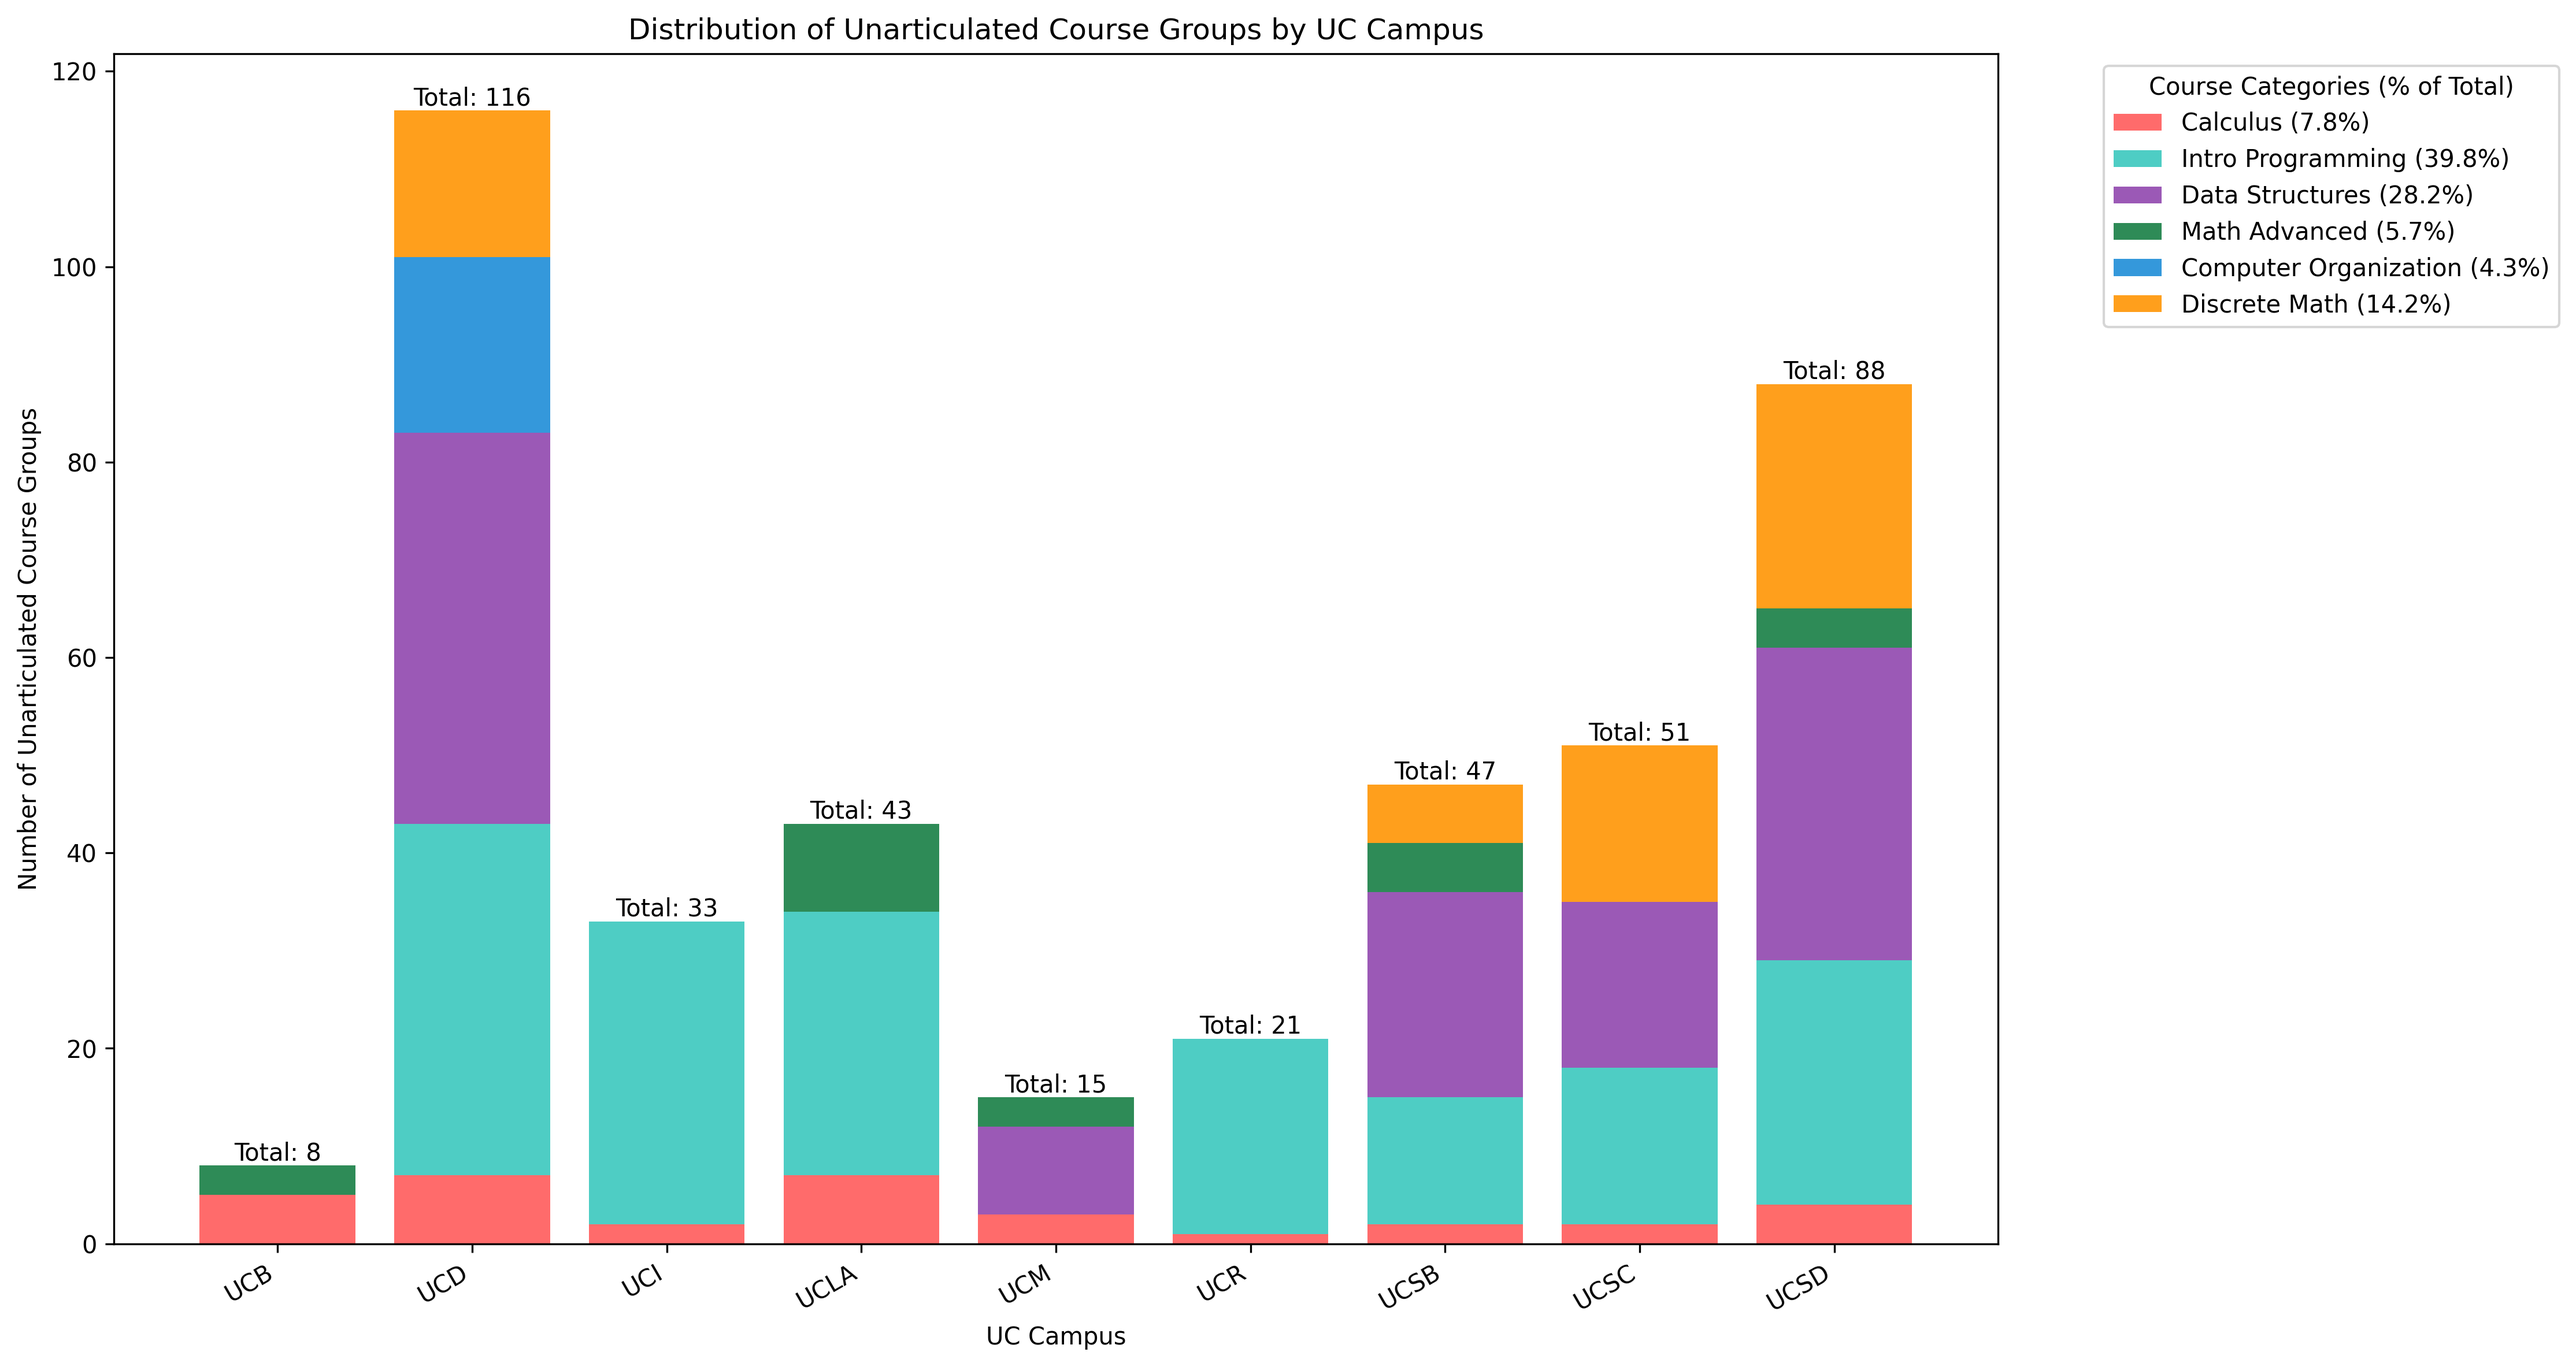
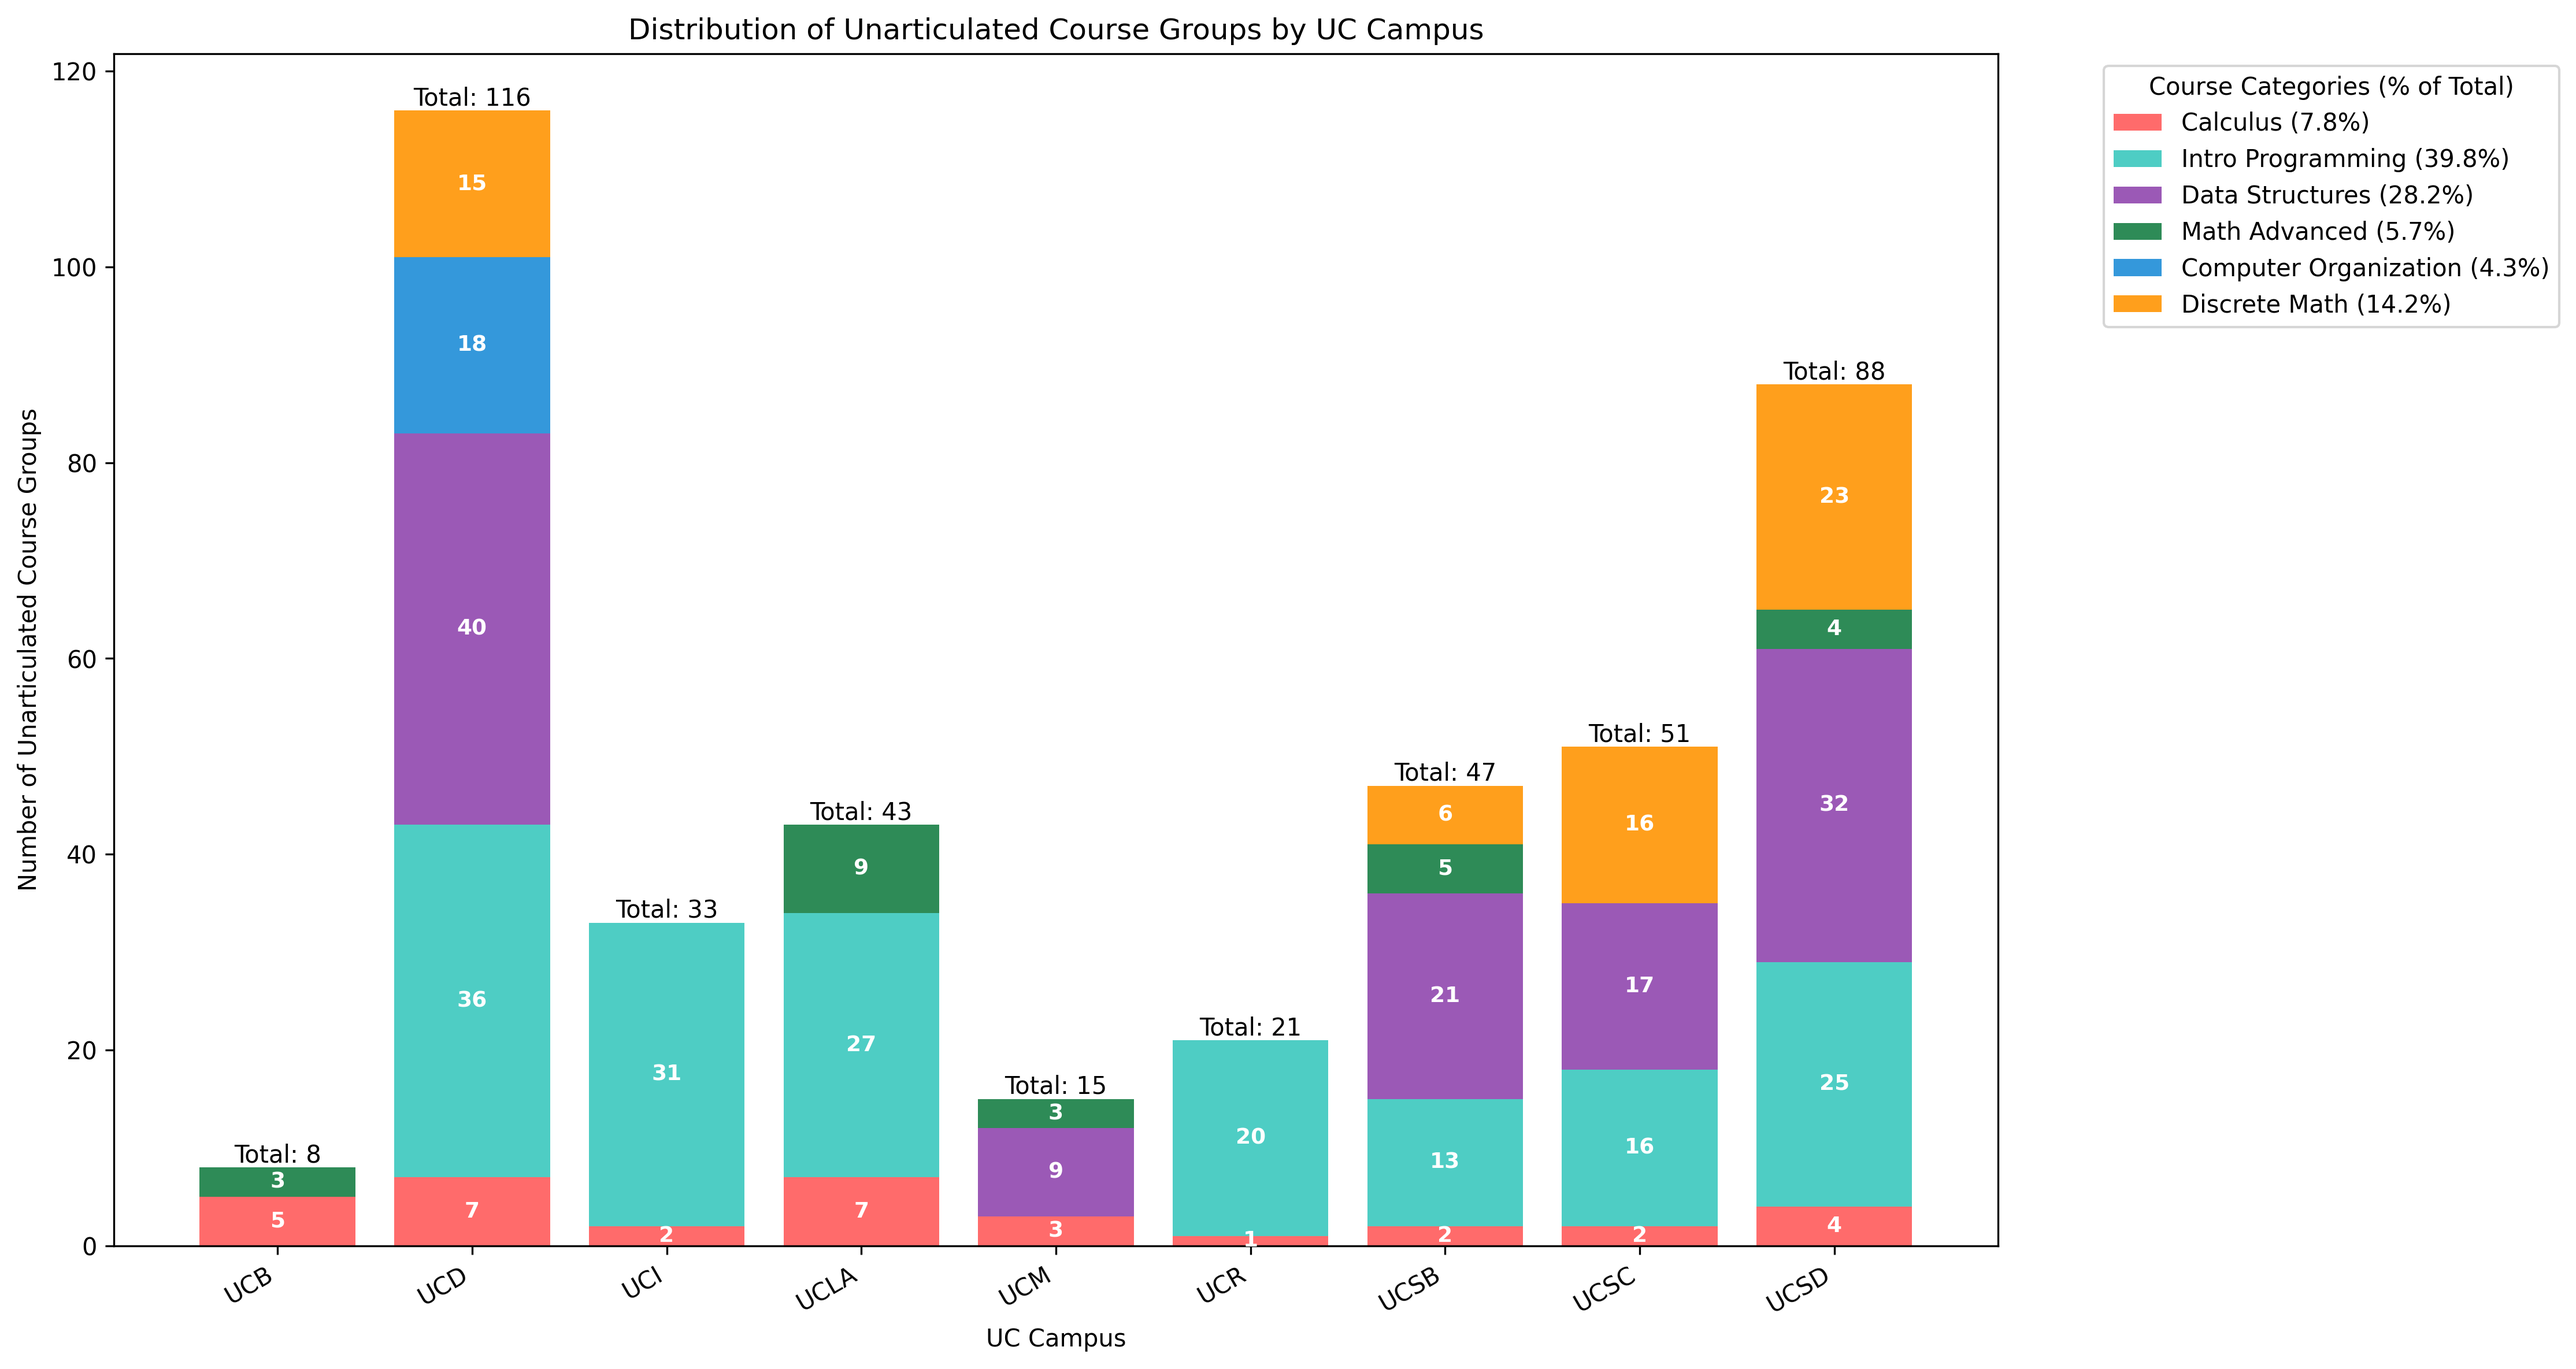
add numbers to stacked graph

diff --git a/question_2-3/district-level/detailed_district_least_options.py b/question_2-3/district-level/detailed_district_least_options.py
@@ -308,10 +308,19 @@ def create_group_frequency_graph(data):
         label = f"{category.replace('_', ' ').title()} ({percentage:.1f}%)"
         
         # Plot the combined category
-        plt.bar(uc_names, category_total, bottom=bottom, 
-               label=label, color=color)
+        bars = plt.bar(uc_names, category_total, bottom=bottom,label=label, color=color)
+        for bar, height, base in zip(bars, category_total, bottom):
+            if height > 0:
+                plt.text(
+                    bar.get_x() + bar.get_width() / 2,
+                    base + height / 2,
+                    f'{int(height)}',
+                    ha='center', va='center', fontsize=9, color='white', weight='bold'
+                )
         bottom += category_total
+
     
+
     # Plot ungrouped courses last as a single category
     if ungrouped:
         ungrouped_total_heights = np.zeros(len(uc_names))
@@ -323,8 +332,17 @@ def create_group_frequency_graph(data):
             ungrouped_total_heights += heights
         
         percentage = (category_totals['Other'] / total_unarticulated) * 100
-        plt.bar(uc_names, ungrouped_total_heights, bottom=bottom, 
-               label=f"Other Courses ({percentage:.1f}%)", color='#CCCCCC')
+        bars = plt.bar(uc_names, ungrouped_total_heights, bottom=bottom,label=f"Other Courses ({percentage:.1f}%)", color='#CCCCCC')
+        for bar, height, base in zip(bars, ungrouped_total_heights, bottom):
+            if height > 0:
+                plt.text(
+                    bar.get_x() + bar.get_width() / 2,
+                    base + height / 2,
+                    f'{int(height)}',
+                    ha='center', va='center', fontsize=9, color='black', weight='bold'
+                )
+        bottom += ungrouped_total_heights
+
     
     # Add total counts on top of each bar
     total_heights = bottom  # bottom now contains cumulative heights
